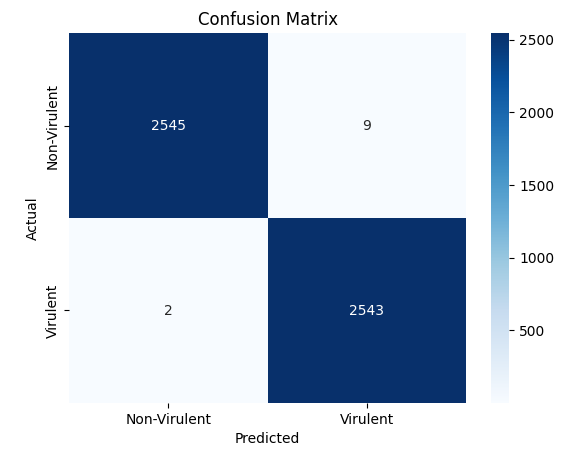
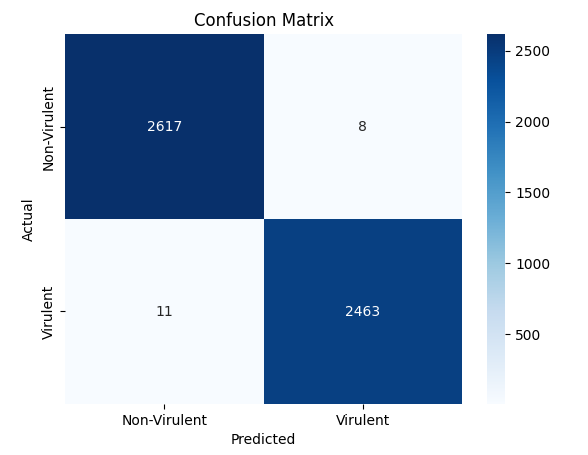
Re-executed training for consistency

diff --git a/README.md b/README.md
@@ -8,13 +8,13 @@
 
 This repository contains the code used for training the protein virulence classification model and a web interface that can be used for making predictions. The project fine-tuned a ESM-2 protein language model to predict whether a protein sequence is a virulence factor or not.
 
-## 📁 Repository Structure
+## Repository Structure
 
   * `app.py`: The Streamlit web interface code for making predictions.
   * `training.py`: The Python script used for training the ESM-2 model with an active learning approach.
   * `.plots/`: Directory containing all the generated plots.
 
-## 🚀 Web Interface
+## Web Interface
 
 The `app.py` script provides a user-friendly web interface built with **Streamlit** that allows you to paste a protein sequence and get a real-time prediction. It uses the fine-tuned models hosted on Hugging Face: `kssrikar4/AVP-ESM2-8m` and `kssrikar4/AVP-ESM2-35m`.
 
@@ -36,9 +36,9 @@ The `app.py` script provides a user-friendly web interface built with **Streamli
     streamlit run app.py
     ```
     
-## 🧠 Model Details
+## Model Details
 
-The core of this project is a fine-tuned `facebook/esm2_t6_8m_ur50d` protein language model. It's designed for the binary classification of protein sequences, distinguishing between virulence factors and non-virulence factors.
+The core of this project is a fine-tuned `ESM-2` protein language model. It's designed for the binary classification of protein sequences, distinguishing between virulence factors and non-virulence factors.
 
 **Intended Use:** The primary purpose of this model is to assist in bioinformatics research, drug discovery, and pathogen analysis. It is **not intended for clinical diagnostic purposes**.
 
@@ -71,7 +71,7 @@ The model is fine-tuned using a multi-iteration **active learning approach** to 
 3.  **Uncertainty Sampling:** The most uncertain samples were identified using a **Least Confidence querying strategy**.
 4.  **Re-labeling and Retraining:** These newly selected samples were added to the labeled training set, and the model was retrained on the expanded dataset.
 
-## 📊 Evaluation & Performance of 8M model
+## Evaluation & Performance of 8M model
 
 The model's performance was evaluated on a held-out test set to provide an unbiased measure of its effectiveness.
 
@@ -80,11 +80,11 @@ This report reflects the model's performance on a validation set. This data was 
 
 | Class | Precision | Recall | F1-Score | Support |
 | :--- | :--- | :--- | :--- | :--- |
-| Non-Virulent | 1.00 | 1.00 | 1.00 | 2458 |
-| Virulent | 1.00 | 1.00 | 1.00 | 2642 |
-| **Accuracy** | **-** | **-** | **1.00** | **5100** |
-| **Macro Avg** | **1.00** | **1.00** | **1.00** | **5100** |
-| **Weighted Avg** | **1.00** | **1.00** | **1.00** | **5100** |
+| Non-Virulent | 0.99 | 0.99 | 0.99 | 2479 |
+| Virulent | 0.99 | 1.00 | 0.99 | 2620 |
+| **Accuracy** | **-** | **-** | **0.99** | **5099** |
+| **Macro Avg** | **0.99** | **0.99** | **0.99** | **5099** |
+| **Weighted Avg** | **0.99** | **0.99** | **0.99** | **5099** |
 
 * **Intermediate Evaluation Confusion Matrix:**
 ![Placeholder for Confusion Matrix](.plots/8m-validation.png)
@@ -94,13 +94,13 @@ _A detailed breakdown of correct and incorrect predictions on the validaion set.
 #### Final Evaluation on Held-out Test Set
 This report presents the model's final, unbiased performance on data it has never seen. These metrics are the most reliable indicators of the model's performance on new, unseen protein sequences.
 
-* **Final Test Accuracy:** 0.9507
-* **Final Test F1 Score (Macro):** 0.9507
+* **Final Test Accuracy:** 0.9534
+* **Final Test F1 Score (Macro):** 0.9534
 
 | Class | Precision | Recall | F1-Score | Support |
 | :--- | :--- | :--- | :--- | :--- |
-| Negative | 0.97 | 0.93 | 0.95 | 6492 |
-| Positive | 0.94 | 0.97 | 0.95 | 6491 |
+| Negative | 0.96 | 0.95 | 0.95 | 6492 |
+| Positive | 0.95 | 0.96 | 0.95 | 6491 |
 | **Accuracy** | **-** | **-** | **0.95** | **12983** |
 | **Macro Avg** | **0.95** | **0.95** | **0.95** | **12983** |
 | **Weighted Avg** | **0.95** | **0.95** | **0.95** | **12983** |
@@ -110,18 +110,18 @@ This report presents the model's final, unbiased performance on data it has neve
 
 _A detailed breakdown of correct and incorrect predictions on the test set._
 
-## 📊 Evaluation & Performance of 35M model
+## Evaluation & Performance of 35M model
 
 #### Intermediate Evaluation on Validation Set
 This report reflects the model's performance on a validation set. This data was used during the training loop to monitor progress and guide the active learning strategy, allowing the model to focus on the most uncertain examples. The perfect scores indicate strong performance on the data it was exposed to during the retraining process.
 
 | Class | Precision | Recall | F1-Score | Support |
 | :--- | :--- | :--- | :--- | :--- |
-| Non-Virulent | 1.00 | 1.00 | 1.00 | 2195 |
-| Virulent | 1.00 | 1.00 | 1.00 | 2405 |
-| **Accuracy** | **-** | **-** | **1.00** | **4600** |
-| **Macro Avg** | **1.00** | **1.00** | **1.00** | **4600** |
-| **Weighted Avg** | **1.00** | **1.00** | **1.00** | **4600** |
+| Non-Virulent | 1.00 | 1.00 | 1.00 | 2451 |
+| Virulent | 1.00 | 1.00 | 1.00 | 2648 |
+| **Accuracy** | **-** | **-** | **1.00** | **5099** |
+| **Macro Avg** | **1.00** | **1.00** | **1.00** | **5099** |
+| **Weighted Avg** | **1.00** | **1.00** | **1.00** | **5099** |
 
 * **Intermediate Evaluation Confusion Matrix:**
 ![Placeholder for Confusion Matrix](.plots/35m-validation.png)
@@ -131,13 +131,13 @@ _A detailed breakdown of correct and incorrect predictions on the validaion set.
 #### Final Evaluation on Held-out Test Set
 This report presents the model's final, unbiased performance on data it has never seen. These metrics are the most reliable indicators of the model's performance on new, unseen protein sequences.
 
-* **Final Test Accuracy:** 0.9621
-* **Final Test F1 Score (Macro):** 0.9621
+* **Final Test Accuracy:** 0.9570
+* **Final Test F1 Score (Macro):** 0.9570
 
 | Class | Precision | Recall | F1-Score | Support |
 | :--- | :--- | :--- | :--- | :--- |
-| Negative | 0.96 | 0.96 | 0.96 | 6491 |
-| Positive | 0.96 | 0.96 | 0.96 | 6492 |
+| Negative | 0.96 | 0.95 | 0.96 | 6491 |
+| Positive | 0.96 | 0.97 | 0.96 | 6492 |
 | **Accuracy** | **-** | **-** | **0.96** | **12983** |
 | **Macro Avg** | **0.96** | **0.96** | **0.96** | **12983** |
 | **Weighted Avg** | **0.96** | **0.96** | **0.96** | **12983** |
@@ -147,15 +147,15 @@ This report presents the model's final, unbiased performance on data it has neve
 
 _A detailed breakdown of correct and incorrect predictions on the test set._
 
-## 📊 Evaluation & Performance of 150M model
+## Evaluation & Performance of 150M model
 
 #### Intermediate Evaluation on Validation Set
 This report reflects the model's performance on a validation set. This data was used during the training loop to monitor progress and guide the active learning strategy, allowing the model to focus on the most uncertain examples. The perfect scores indicate strong performance on the data it was exposed to during the retraining process.
 
 | Class | Precision | Recall | F1-Score | Support |
 | :--- | :--- | :--- | :--- | :--- |
-| Non-Virulent | 1.00 | 1.00 | 1.00 | 2554 |
-| Virulent | 1.00 | 1.00 | 1.00 | 2545 |
+| Non-Virulent | 1.00 | 1.00 | 1.00 | 2625 |
+| Virulent | 1.00 | 1.00 | 1.00 | 2474 |
 | **Accuracy** | **-** | **-** | **1.00** | **5099** |
 | **Macro Avg** | **1.00** | **1.00** | **1.00** | **5099** |
 | **Weighted Avg** | **1.00** | **1.00** | **1.00** | **5099** |
@@ -168,13 +168,13 @@ _A detailed breakdown of correct and incorrect predictions on the validaion set.
 #### Final Evaluation on Held-out Test Set
 This report presents the model's final, unbiased performance on data it has never seen. These metrics are the most reliable indicators of the model's performance on new, unseen protein sequences.
 
-* **Final Test Accuracy:** 0.9600
-* **Final Test F1 Score (Macro):** 0.9600
+* **Final Test Accuracy:** 0.9601
+* **Final Test F1 Score (Macro):** 0.9601
 
 | Class | Precision | Recall | F1-Score | Support |
 | :--- | :--- | :--- | :--- | :--- |
-| Negative | 0.97 | 0.95 | 0.96 | 6491 |
-| Positive | 0.95 | 0.97 | 0.96 | 6492 |
+| Negative | 0.96 | 0.96 | 0.96 | 6491 |
+| Positive | 0.96 | 0.96 | 0.96 | 6492 |
 | **Accuracy** | **-** | **-** | **0.96** | **12983** |
 | **Macro Avg** | **0.96** | **0.96** | **0.96** | **12983** |
 | **Weighted Avg** | **0.96** | **0.96** | **0.96** | **12983** |
@@ -185,7 +185,7 @@ This report presents the model's final, unbiased performance on data it has neve
 _A detailed breakdown of correct and incorrect predictions on the test set._
 
 
-## 📈 Visualizations
+## Visualizations
 
 | Plot | Description |
 | :--- | :--- |
@@ -264,6 +264,6 @@ I would like to express my gratitude to the following organizations and projects
       * [**InterPro**](https://www.ebi.ac.uk/interpro/)
   * **Google Gemini:** For its assistance in generating code.
 
-## 📄 Licensing
+## Licensing
 
 This project is licensed under the **GNU Lesser General Public License v2.1 (LGPL-2.1)**.
